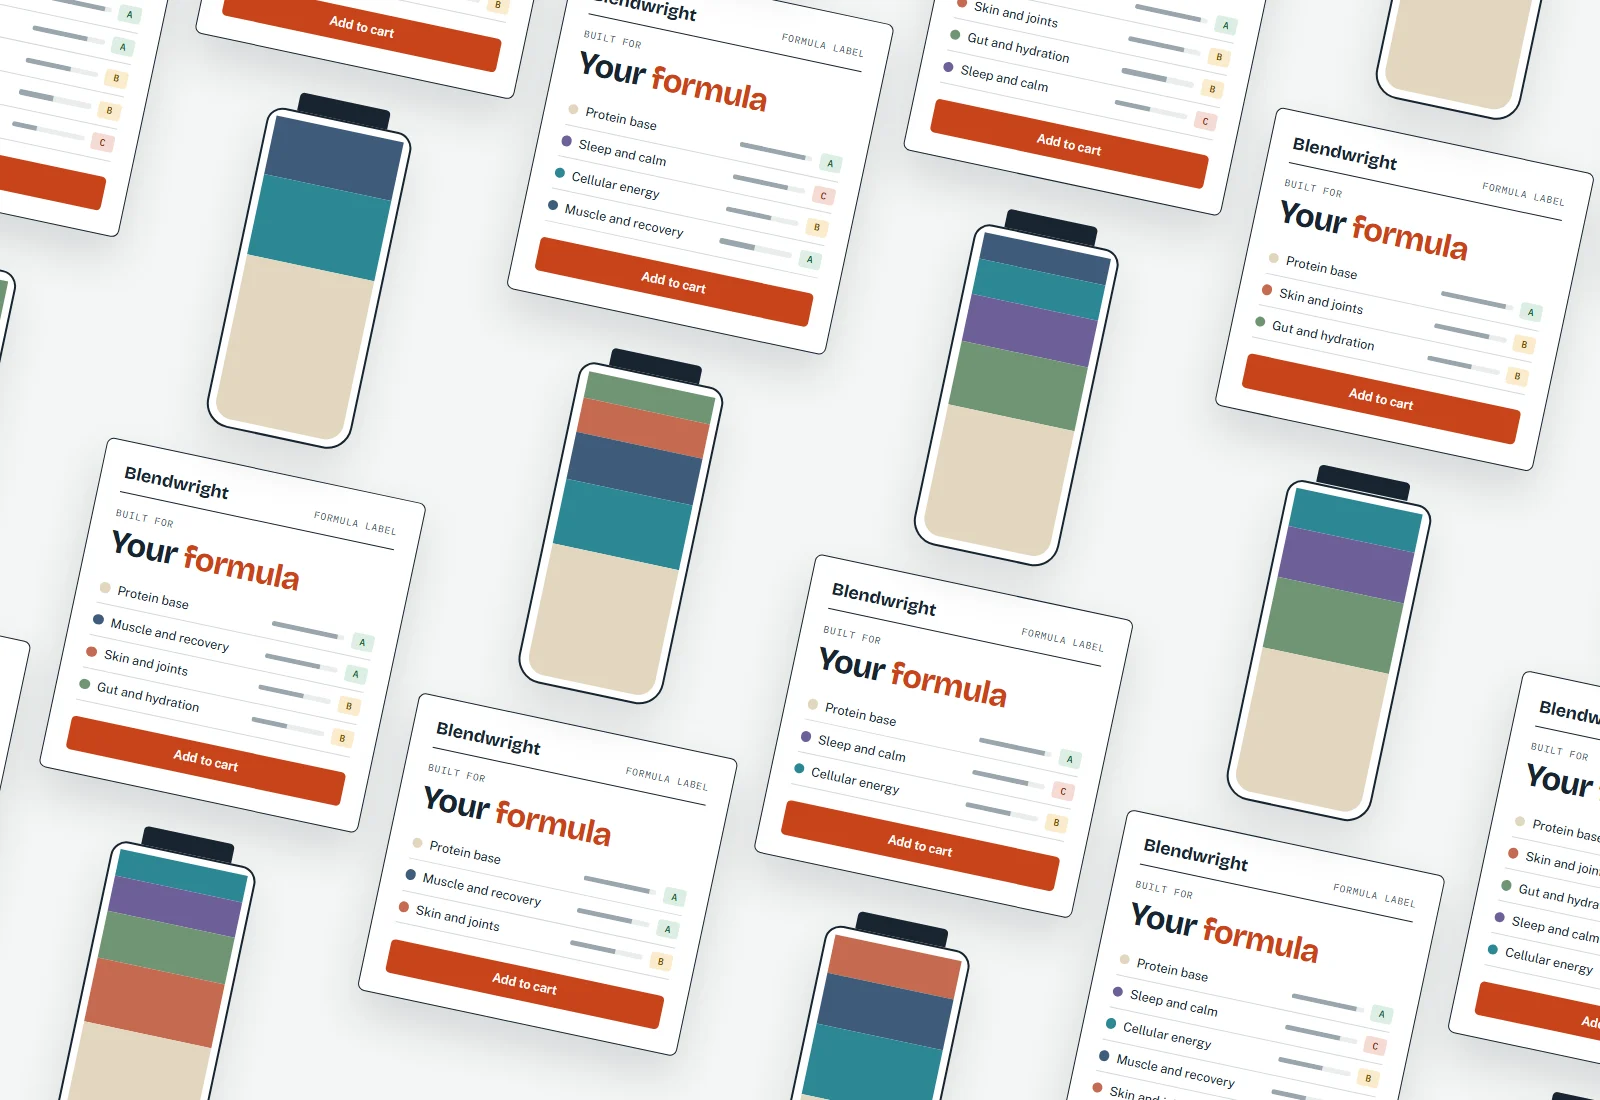
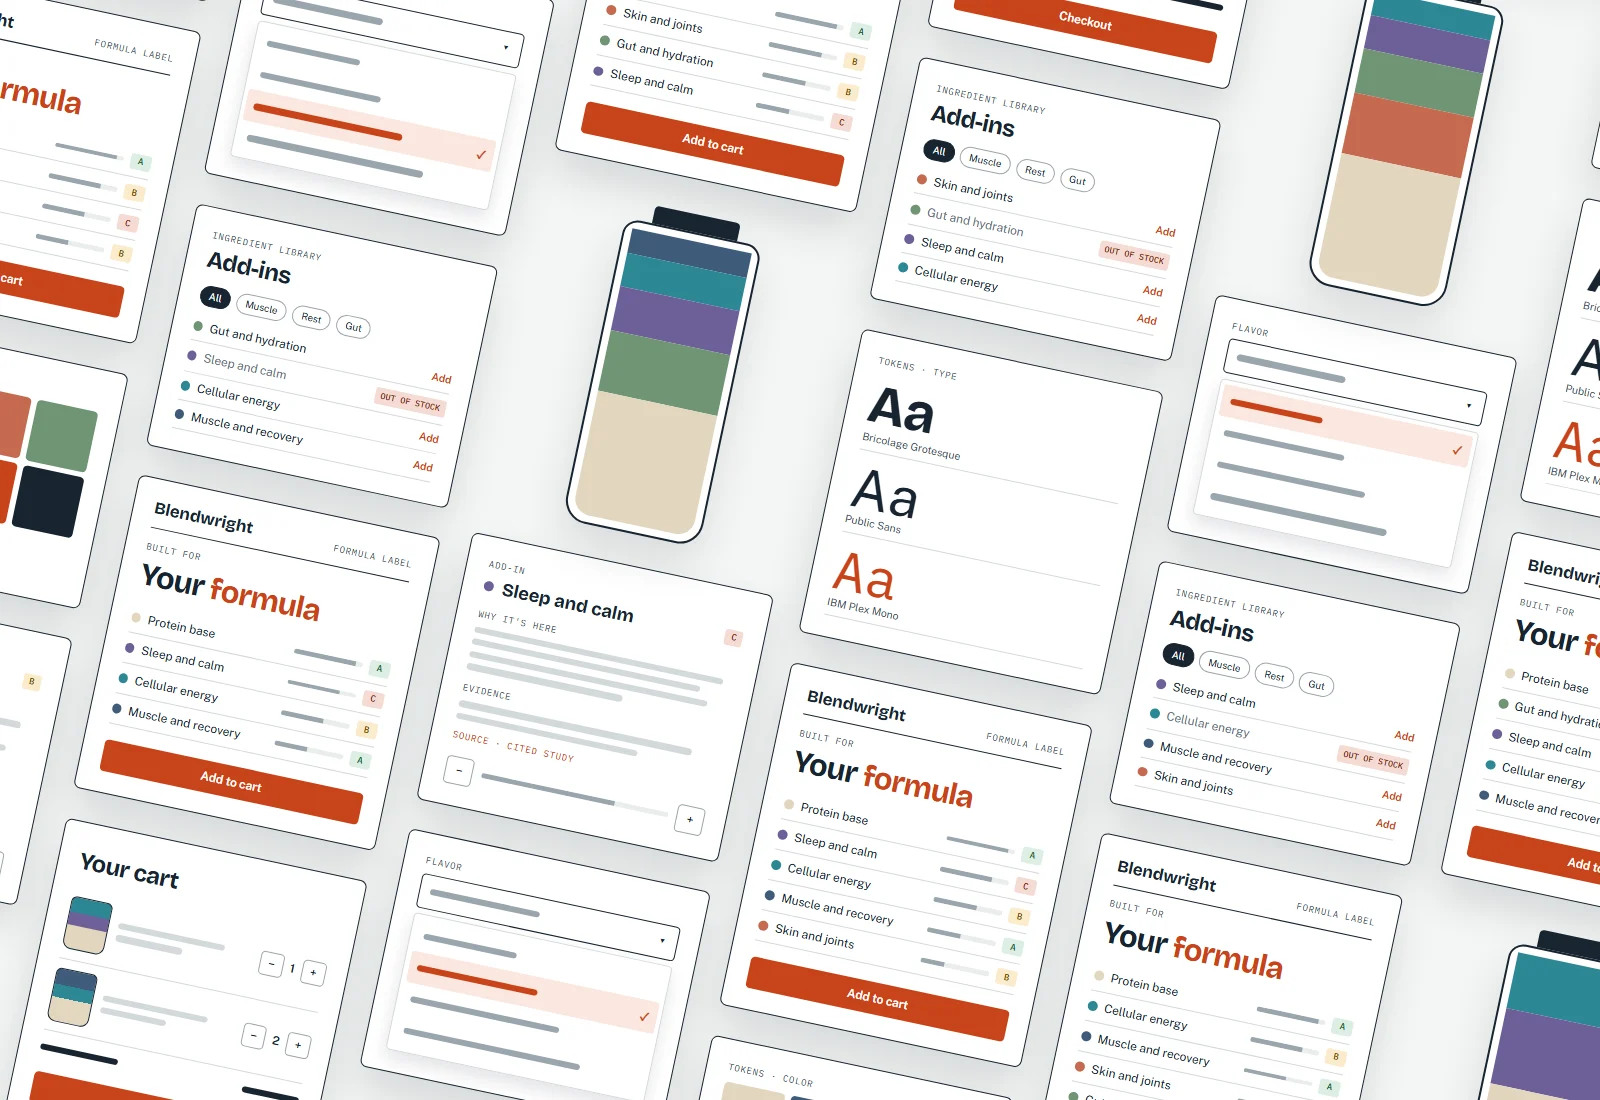
Vary the Blendwright cover, embed-only FlexiDoc demo, version CSS and JS

diff --git a/work/blendwright/index.html b/work/blendwright/index.html
@@ -7,7 +7,7 @@
 <meta name="description" content="How I designed Blendwright, a custom protein powder site built around a formula label: research, design direction, a token-based design system and accessibility results.">
 <meta property="og:title" content="Blendwright case study, Stevie McLane">
 <meta property="og:description" content="How I designed Blendwright, a custom protein powder site built around a formula label: research, design direction, a token-based design system and accessibility results.">
-<meta property="og:image" content="https://steviemclane.com/assets/img/blendwright/cover.webp?v=3">
+<meta property="og:image" content="https://steviemclane.com/assets/img/blendwright/cover.webp?v=4">
 <meta name="theme-color" content="#0b0a10">
 <link rel="icon" type="image/png" sizes="32x32" href="/images/favicon-32.png?v=2">
 <link rel="icon" type="image/png" sizes="16x16" href="/images/favicon-16.png?v=2">
@@ -15,7 +15,7 @@
 <link rel="preconnect" href="https://fonts.googleapis.com">
 <link rel="preconnect" href="https://fonts.gstatic.com" crossorigin>
 <link rel="stylesheet" href="https://fonts.googleapis.com/css2?family=Schibsted+Grotesk:wght@400..900&family=Bricolage+Grotesque:opsz,wght@12..96,700&family=Public+Sans:wght@400;600&family=IBM+Plex+Mono:wght@400;500&display=swap">
-<link rel="stylesheet" href="/assets/css/site.css">
+<link rel="stylesheet" href="/assets/css/site.css?v=20261107">
 <script>
 (function (r) {
   if (!('onpagereveal' in window)) r.classList.add('no-vt');
@@ -45,7 +45,7 @@
 
 <main id="main">
   <section class="case-hero">
-    <div class="case-bg cover-blendwright" aria-hidden="true"><img src="/assets/img/blendwright/hero-bg.webp?v=3" alt="" width="2400" height="1350" fetchpriority="high"></div>
+    <div class="case-bg cover-blendwright" aria-hidden="true"><img src="/assets/img/blendwright/hero-bg.webp?v=4" alt="" width="2400" height="1350" fetchpriority="high"></div>
     <div class="wrap case-hero-inner">
       <a class="back-link" href="/#work"><span aria-hidden="true">&larr;</span> All work</a>
       <h1 class="case-title" data-reveal="load">Blendwright</h1>
@@ -397,7 +397,7 @@
 <script src="https://cdnjs.cloudflare.com/ajax/libs/gsap/3.13.0/gsap.min.js"></script>
 <script src="https://cdnjs.cloudflare.com/ajax/libs/gsap/3.13.0/ScrollTrigger.min.js"></script>
 <script src="https://cdnjs.cloudflare.com/ajax/libs/gsap/3.13.0/SplitText.min.js"></script>
-<script src="/assets/js/site.js"></script>
-<script src="/assets/js/blendwright.js"></script>
+<script src="/assets/js/site.js?v=20261107"></script>
+<script src="/assets/js/blendwright.js?v=20261107"></script>
 </body>
 </html>

diff --git a/work/any-day-now/index.html b/work/any-day-now/index.html
@@ -15,7 +15,7 @@
 <link rel="preconnect" href="https://fonts.googleapis.com">
 <link rel="preconnect" href="https://fonts.gstatic.com" crossorigin>
 <link rel="stylesheet" href="https://fonts.googleapis.com/css2?family=Schibsted+Grotesk:wght@400..900&display=swap">
-<link rel="stylesheet" href="/assets/css/site.css">
+<link rel="stylesheet" href="/assets/css/site.css?v=20261107">
 <script>
 (function (r) {
   if (!('onpagereveal' in window)) r.classList.add('no-vt');
@@ -383,7 +383,7 @@
   <section class="more wrap" aria-labelledby="more-title">
     <h2 id="more-title" data-reveal="lines">Read more of my case studies</h2>
     <ul class="more-grid" data-reveal="stack">
-      <li><a class="more-link" href="/work/blendwright/"><div class="work-media cover-blendwright"><img src="/assets/img/blendwright/cover.webp?v=3" alt="" width="1600" height="1100" loading="lazy" decoding="async"></div><h3>Blendwright <span aria-hidden="true">&rarr;</span></h3><p>A custom nutrition builder that shows its work</p></a></li>
+      <li><a class="more-link" href="/work/blendwright/"><div class="work-media cover-blendwright"><img src="/assets/img/blendwright/cover.webp?v=4" alt="" width="1600" height="1100" loading="lazy" decoding="async"></div><h3>Blendwright <span aria-hidden="true">&rarr;</span></h3><p>A custom nutrition builder that shows its work</p></a></li>
       <li><a class="more-link" href="/work/flexidoc/"><div class="work-media cover-flexidoc"><img src="/assets/img/flexidoc/cover.webp?v=3" alt="" width="1600" height="1100" loading="lazy" decoding="async"></div><h3>FlexiDoc <span aria-hidden="true">&rarr;</span></h3><p>Appointment scheduling for people with agoraphobia</p></a></li>    </ul>
     </ul>
   </section>
@@ -455,6 +455,6 @@
 <script src="https://cdnjs.cloudflare.com/ajax/libs/gsap/3.13.0/gsap.min.js"></script>
 <script src="https://cdnjs.cloudflare.com/ajax/libs/gsap/3.13.0/ScrollTrigger.min.js"></script>
 <script src="https://cdnjs.cloudflare.com/ajax/libs/gsap/3.13.0/SplitText.min.js"></script>
-<script src="/assets/js/site.js"></script>
+<script src="/assets/js/site.js?v=20261107"></script>
 </body>
 </html>

diff --git a/work/flexidoc/index.html b/work/flexidoc/index.html
@@ -15,7 +15,7 @@
 <link rel="preconnect" href="https://fonts.googleapis.com">
 <link rel="preconnect" href="https://fonts.gstatic.com" crossorigin>
 <link rel="stylesheet" href="https://fonts.googleapis.com/css2?family=Schibsted+Grotesk:wght@400..900&display=swap">
-<link rel="stylesheet" href="/assets/css/site.css">
+<link rel="stylesheet" href="/assets/css/site.css?v=20261107">
 <script>
 (function (r) {
   if (!('onpagereveal' in window)) r.classList.add('no-vt');
@@ -398,12 +398,11 @@
         </div>
         <div class="prose" data-reveal="text">
           <p>Static screens only show so much, so I rebuilt the calendar as an interactive prototype in Figma Make. It runs right here: flip through the months, tap around the calendar, and try the plus button and the notes field the way a patient would.</p>
-          <p><a class="text-link" href="https://marsh-stove-48895407.figma.site" target="_blank" rel="noopener">Open the demo full screen<span class="visually-hidden"> (opens in a new tab)</span> <span aria-hidden="true">&nearr;</span></a></p>
         </div>
       </div>
       <figure class="demo-card" data-reveal="wipe">
         <div class="demo-phone">
-          <iframe src="https://marsh-stove-48895407.figma.site" title="FlexiDoc interactive calendar prototype" loading="lazy"></iframe>
+          <iframe src="https://marsh-stove-48895407.figma.site" width="390" height="844" title="FlexiDoc interactive calendar prototype" loading="lazy"></iframe>
         </div>
         <figcaption class="asset-caption">Built in Figma Make. Everything inside the phone is interactive.</figcaption>
       </figure>
@@ -541,6 +540,6 @@
 <script src="https://cdnjs.cloudflare.com/ajax/libs/gsap/3.13.0/gsap.min.js"></script>
 <script src="https://cdnjs.cloudflare.com/ajax/libs/gsap/3.13.0/ScrollTrigger.min.js"></script>
 <script src="https://cdnjs.cloudflare.com/ajax/libs/gsap/3.13.0/SplitText.min.js"></script>
-<script src="/assets/js/site.js"></script>
+<script src="/assets/js/site.js?v=20261107"></script>
 </body>
 </html>

diff --git a/index.html b/index.html
@@ -15,7 +15,7 @@
 <link rel="preconnect" href="https://fonts.googleapis.com">
 <link rel="preconnect" href="https://fonts.gstatic.com" crossorigin>
 <link rel="stylesheet" href="https://fonts.googleapis.com/css2?family=Schibsted+Grotesk:wght@400..900&display=swap">
-<link rel="stylesheet" href="/assets/css/site.css">
+<link rel="stylesheet" href="/assets/css/site.css?v=20261107">
 <script>
 (function (r) {
   if (!('onpagereveal' in window)) r.classList.add('no-vt');
@@ -88,7 +88,7 @@
             <span class="work-cta">Read the case study</span>
           </div>
           <div class="work-media cover-blendwright" data-reveal="wipe">
-            <img src="/assets/img/blendwright/cover.webp?v=3" alt="A tilted wall of Blendwright formula labels and blend jars filled in colored layers" width="1600" height="1100" loading="lazy" decoding="async">
+            <img src="/assets/img/blendwright/cover.webp?v=4" alt="A tilted wall of Blendwright screens: formula labels, blend jars, ingredient cards, the cart and the design tokens" width="1600" height="1100" loading="lazy" decoding="async">
           </div>
         </a>
       </li>
@@ -193,6 +193,6 @@
 <script src="https://cdnjs.cloudflare.com/ajax/libs/gsap/3.13.0/gsap.min.js"></script>
 <script src="https://cdnjs.cloudflare.com/ajax/libs/gsap/3.13.0/ScrollTrigger.min.js"></script>
 <script src="https://cdnjs.cloudflare.com/ajax/libs/gsap/3.13.0/SplitText.min.js"></script>
-<script src="/assets/js/site.js"></script>
+<script src="/assets/js/site.js?v=20261107"></script>
 </body>
 </html>

diff --git a/work/sld/index.html b/work/sld/index.html
@@ -15,7 +15,7 @@
 <link rel="preconnect" href="https://fonts.googleapis.com">
 <link rel="preconnect" href="https://fonts.gstatic.com" crossorigin>
 <link rel="stylesheet" href="https://fonts.googleapis.com/css2?family=Schibsted+Grotesk:wght@400..900&display=swap">
-<link rel="stylesheet" href="/assets/css/site.css">
+<link rel="stylesheet" href="/assets/css/site.css?v=20261107">
 <script>
 (function (r) {
   if (!('onpagereveal' in window)) r.classList.add('no-vt');
@@ -329,8 +329,8 @@
 <script src="https://cdnjs.cloudflare.com/ajax/libs/gsap/3.13.0/gsap.min.js"></script>
 <script src="https://cdnjs.cloudflare.com/ajax/libs/gsap/3.13.0/ScrollTrigger.min.js"></script>
 <script src="https://cdnjs.cloudflare.com/ajax/libs/gsap/3.13.0/SplitText.min.js"></script>
-<script src="/assets/js/site.js"></script>
+<script src="/assets/js/site.js?v=20261107"></script>
 <script src="/assets/js/audioMotion-analyzer.js"></script>
-<script src="/assets/js/sld.js"></script>
+<script src="/assets/js/sld.js?v=20261107"></script>
 </body>
 </html>

diff --git a/404.html b/404.html
@@ -15,7 +15,7 @@
 <link rel="preconnect" href="https://fonts.googleapis.com">
 <link rel="preconnect" href="https://fonts.gstatic.com" crossorigin>
 <link rel="stylesheet" href="https://fonts.googleapis.com/css2?family=Schibsted+Grotesk:wght@400..900&display=swap">
-<link rel="stylesheet" href="/assets/css/site.css">
+<link rel="stylesheet" href="/assets/css/site.css?v=20261107">
 <script>
 (function (r) {
   if (!('onpagereveal' in window)) r.classList.add('no-vt');
@@ -117,6 +117,6 @@
 <script src="https://cdnjs.cloudflare.com/ajax/libs/gsap/3.13.0/gsap.min.js"></script>
 <script src="https://cdnjs.cloudflare.com/ajax/libs/gsap/3.13.0/ScrollTrigger.min.js"></script>
 <script src="https://cdnjs.cloudflare.com/ajax/libs/gsap/3.13.0/SplitText.min.js"></script>
-<script src="/assets/js/site.js"></script>
+<script src="/assets/js/site.js?v=20261107"></script>
 </body>
 </html>

diff --git a/about/index.html b/about/index.html
@@ -15,7 +15,7 @@
 <link rel="preconnect" href="https://fonts.googleapis.com">
 <link rel="preconnect" href="https://fonts.gstatic.com" crossorigin>
 <link rel="stylesheet" href="https://fonts.googleapis.com/css2?family=Schibsted+Grotesk:wght@400..900&display=swap">
-<link rel="stylesheet" href="/assets/css/site.css">
+<link rel="stylesheet" href="/assets/css/site.css?v=20261107">
 <script>
 (function (r) {
   if (!('onpagereveal' in window)) r.classList.add('no-vt');
@@ -163,6 +163,6 @@
 <script src="https://cdnjs.cloudflare.com/ajax/libs/gsap/3.13.0/gsap.min.js"></script>
 <script src="https://cdnjs.cloudflare.com/ajax/libs/gsap/3.13.0/ScrollTrigger.min.js"></script>
 <script src="https://cdnjs.cloudflare.com/ajax/libs/gsap/3.13.0/SplitText.min.js"></script>
-<script src="/assets/js/site.js"></script>
+<script src="/assets/js/site.js?v=20261107"></script>
 </body>
 </html>
